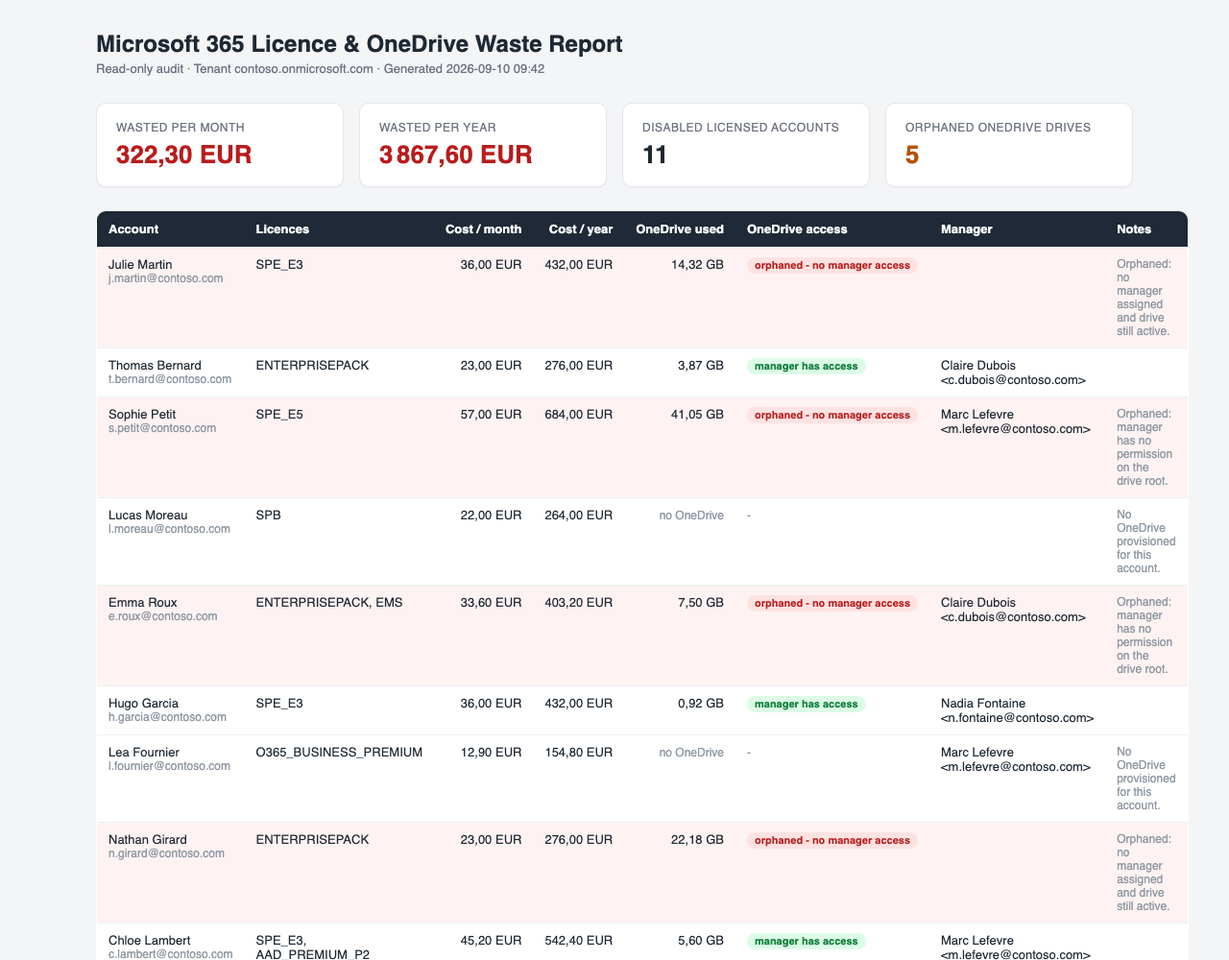
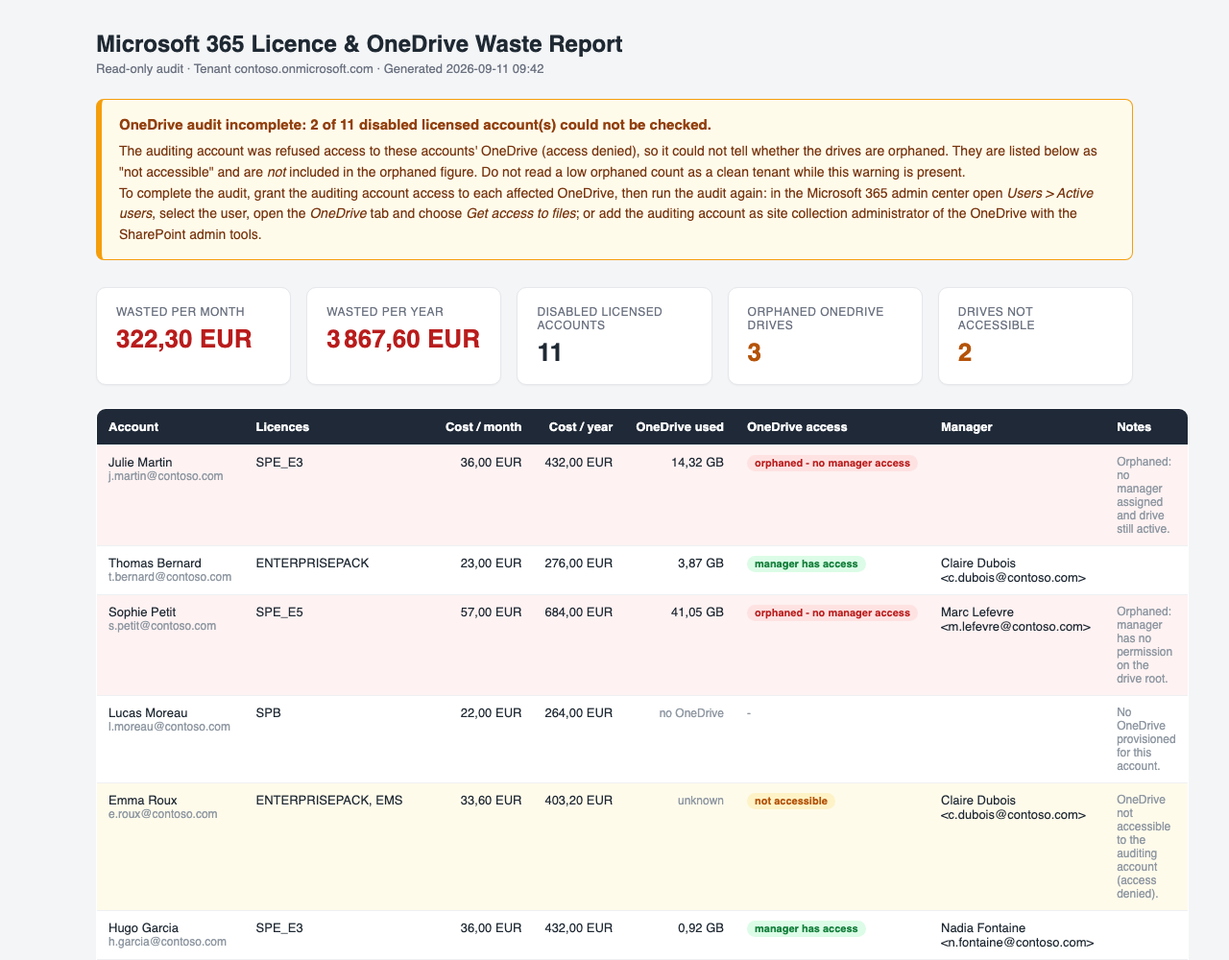
Report inaccessible OneDrive drives explicitly instead of counting them as not orphaned
Replaces the OneDriveOrphaned boolean with a four-value OneDriveStatus
(Orphaned, Delegated, NotProvisioned, NotAccessible). Access denied and any
unrecognised failure now yield NotAccessible; the notAllowed 'no valid license'
answer yields NotProvisioned. The HTML report gains a 'Drives not accessible'
counter and a warning box when it is above zero, the console summary prints the
same warning, and the orphaned counter only counts drives that were actually
read. Licence detection and cost calculation are unchanged.

Also: example report regenerated with the four statuses, Known limitations
updated, CHANGELOG 1.0.2.

diff --git a/Docs/example-report.html b/Docs/example-report.html
@@ -11,14 +11,19 @@
     .wrap { max-width: 1120px; margin: 0 auto; padding: 32px 20px 56px; }
     header h1 { margin: 0 0 4px; font-size: 24px; }
     header .sub { color: #6b7280; font-size: 13px; }
-    .cards { display: grid; grid-template-columns: repeat(4, 1fr); gap: 16px; margin: 28px 0 8px; }
+    .cards { display: grid; grid-template-columns: repeat(5, 1fr); gap: 16px; margin: 28px 0 8px; }
     .card { background: #fff; border: 1px solid #e5e7eb; border-radius: 10px; padding: 18px 20px;
             box-shadow: 0 1px 2px rgba(0,0,0,.04); }
     .card .label { color: #6b7280; font-size: 12px; text-transform: uppercase; letter-spacing: .04em; }
     .card .value { font-size: 26px; font-weight: 700; margin-top: 6px; }
     .card.accent .value { color: #b91c1c; }
     .card.warn   .value { color: #b45309; }
-    @media (max-width: 820px) { .cards { grid-template-columns: repeat(2, 1fr); } }
+    @media (max-width: 980px) { .cards { grid-template-columns: repeat(3, 1fr); } }
+    @media (max-width: 640px) { .cards { grid-template-columns: repeat(2, 1fr); } }
+    .alert { margin: 24px 0 0; padding: 14px 18px; background: #fffbeb; color: #78350f;
+             border: 1px solid #f59e0b; border-left-width: 6px; border-radius: 8px;
+             font-size: 14px; line-height: 1.55; }
+    .alert strong { display: block; font-size: 15px; margin-bottom: 6px; color: #92400e; }
     table { width: 100%; border-collapse: collapse; background: #fff; margin-top: 24px;
             border: 1px solid #e5e7eb; border-radius: 10px; overflow: hidden; font-size: 13px; }
     thead th { text-align: left; background: #1f2937; color: #f9fafb; padding: 11px 12px;
@@ -27,11 +32,14 @@
     tbody tr:hover { background: #fafbfc; }
     tr.orphan { background: #fef2f2; }
     tr.orphan:hover { background: #fee2e2; }
+    tr.inaccessible { background: #fffbeb; }
+    tr.inaccessible:hover { background: #fef3c7; }
     td.num, th.num { text-align: right; white-space: nowrap; }
     .muted { color: #9099a3; font-size: 12px; }
     .badge { display: inline-block; padding: 2px 8px; border-radius: 999px; font-size: 11px; font-weight: 600; white-space: nowrap; }
     .badge-risk { background: #fee2e2; color: #b91c1c; }
     .badge-ok   { background: #dcfce7; color: #15803d; }
+    .badge-warn { background: #fef3c7; color: #b45309; }
     footer { margin-top: 28px; color: #9099a3; font-size: 12px; line-height: 1.5; }
 </style>
 </head>
@@ -39,9 +47,19 @@
 <div class="wrap">
     <header>
         <h1>Microsoft 365 Licence &amp; OneDrive Waste Report</h1>
-        <div class="sub">Read-only audit &middot; Tenant contoso.onmicrosoft.com &middot; Generated 2026-09-10 09:42</div>
+        <div class="sub">Read-only audit &middot; Tenant contoso.onmicrosoft.com &middot; Generated 2026-09-11 09:42</div>
     </header>
-
+    <div class="alert" role="alert">
+        <strong>OneDrive audit incomplete: 2 of 11 disabled licensed account(s) could not be checked.</strong>
+        The auditing account was refused access to these accounts' OneDrive (access denied), so it could not
+        tell whether the drives are orphaned. They are listed below as &quot;not accessible&quot; and are
+        <em>not</em> included in the orphaned figure. Do not read a low orphaned count as a clean tenant while
+        this warning is present.<br>
+        To complete the audit, grant the auditing account access to each affected OneDrive, then run the audit
+        again: in the Microsoft 365 admin center open <em>Users &gt; Active users</em>, select the user, open the
+        <em>OneDrive</em> tab and choose <em>Get access to files</em>; or add the auditing account as site
+        collection administrator of the OneDrive with the SharePoint admin tools.
+    </div>
     <section class="cards">
         <div class="card accent">
             <div class="label">Wasted per month</div>
@@ -57,7 +75,11 @@
         </div>
         <div class="card warn">
             <div class="label">Orphaned OneDrive drives</div>
-            <div class="value">5</div>
+            <div class="value">3</div>
+        </div>
+        <div class="card warn">
+            <div class="label">Drives not accessible</div>
+            <div class="value">2</div>
         </div>
     </section>
 
@@ -75,15 +97,16 @@
             </tr>
         </thead>
         <tbody>
-<tr class="orphan"><td>Julie Martin<div class='muted'>j.martin@contoso.com</div></td><td>SPE_E3</td><td class='num'>36,00 EUR</td><td class='num'>432,00 EUR</td><td class='num'>14,32 GB</td><td><span class="badge badge-risk">orphaned - no manager access</span></td><td></td><td class='muted'>Orphaned: no manager assigned and drive still active.</td></tr><tr><td>Thomas Bernard<div class='muted'>t.bernard@contoso.com</div></td><td>ENTERPRISEPACK</td><td class='num'>23,00 EUR</td><td class='num'>276,00 EUR</td><td class='num'>3,87 GB</td><td><span class="badge badge-ok">manager has access</span></td><td>Claire Dubois &lt;c.dubois@contoso.com&gt;</td><td class='muted'></td></tr><tr class="orphan"><td>Sophie Petit<div class='muted'>s.petit@contoso.com</div></td><td>SPE_E5</td><td class='num'>57,00 EUR</td><td class='num'>684,00 EUR</td><td class='num'>41,05 GB</td><td><span class="badge badge-risk">orphaned - no manager access</span></td><td>Marc Lefevre &lt;m.lefevre@contoso.com&gt;</td><td class='muted'>Orphaned: manager has no permission on the drive root.</td></tr><tr><td>Lucas Moreau<div class='muted'>l.moreau@contoso.com</div></td><td>SPB</td><td class='num'>22,00 EUR</td><td class='num'>264,00 EUR</td><td class='num'><span class="muted">no OneDrive</span></td><td><span class="muted">-</span></td><td></td><td class='muted'>No OneDrive provisioned for this account.</td></tr><tr class="orphan"><td>Emma Roux<div class='muted'>e.roux@contoso.com</div></td><td>ENTERPRISEPACK, EMS</td><td class='num'>33,60 EUR</td><td class='num'>403,20 EUR</td><td class='num'>7,50 GB</td><td><span class="badge badge-risk">orphaned - no manager access</span></td><td>Claire Dubois &lt;c.dubois@contoso.com&gt;</td><td class='muted'>Orphaned: manager has no permission on the drive root.</td></tr><tr><td>Hugo Garcia<div class='muted'>h.garcia@contoso.com</div></td><td>SPE_E3</td><td class='num'>36,00 EUR</td><td class='num'>432,00 EUR</td><td class='num'>0,92 GB</td><td><span class="badge badge-ok">manager has access</span></td><td>Nadia Fontaine &lt;n.fontaine@contoso.com&gt;</td><td class='muted'></td></tr><tr><td>Lea Fournier<div class='muted'>l.fournier@contoso.com</div></td><td>O365_BUSINESS_PREMIUM</td><td class='num'>12,90 EUR</td><td class='num'>154,80 EUR</td><td class='num'><span class="muted">no OneDrive</span></td><td><span class="muted">-</span></td><td>Marc Lefevre &lt;m.lefevre@contoso.com&gt;</td><td class='muted'>No OneDrive provisioned for this account.</td></tr><tr class="orphan"><td>Nathan Girard<div class='muted'>n.girard@contoso.com</div></td><td>ENTERPRISEPACK</td><td class='num'>23,00 EUR</td><td class='num'>276,00 EUR</td><td class='num'>22,18 GB</td><td><span class="badge badge-risk">orphaned - no manager access</span></td><td></td><td class='muted'>Orphaned: no manager assigned and drive still active.</td></tr><tr><td>Chloe Lambert<div class='muted'>c.lambert@contoso.com</div></td><td>SPE_E3, AAD_PREMIUM_P2</td><td class='num'>45,20 EUR</td><td class='num'>542,40 EUR</td><td class='num'>5,60 GB</td><td><span class="badge badge-ok">manager has access</span></td><td>Marc Lefevre &lt;m.lefevre@contoso.com&gt;</td><td class='muted'></td></tr><tr class="orphan"><td>Antoine Bonnet<div class='muted'>a.bonnet@contoso.com</div></td><td>ENTERPRISEPACK</td><td class='num'>23,00 EUR</td><td class='num'>276,00 EUR</td><td class='num'>1,30 GB</td><td><span class="badge badge-risk">orphaned - no manager access</span></td><td>Nadia Fontaine &lt;n.fontaine@contoso.com&gt;</td><td class='muted'>Orphaned: manager has no permission on the drive root.</td></tr><tr><td>Legacy Scan Service<div class='muted'>svc-legacy-scan@contoso.com</div></td><td>EMS</td><td class='num'>10,60 EUR</td><td class='num'>127,20 EUR</td><td class='num'><span class="muted">no OneDrive</span></td><td><span class="muted">-</span></td><td></td><td class='muted'>No OneDrive provisioned for this account.</td></tr>
+<tr class="orphan"><td>Julie Martin<div class='muted'>j.martin@contoso.com</div></td><td>SPE_E3</td><td class='num'>36,00 EUR</td><td class='num'>432,00 EUR</td><td class='num'>14,32 GB</td><td><span class="badge badge-risk">orphaned - no manager access</span></td><td></td><td class='muted'>Orphaned: no manager assigned and drive still active.</td></tr><tr><td>Thomas Bernard<div class='muted'>t.bernard@contoso.com</div></td><td>ENTERPRISEPACK</td><td class='num'>23,00 EUR</td><td class='num'>276,00 EUR</td><td class='num'>3,87 GB</td><td><span class="badge badge-ok">manager has access</span></td><td>Claire Dubois &lt;c.dubois@contoso.com&gt;</td><td class='muted'></td></tr><tr class="orphan"><td>Sophie Petit<div class='muted'>s.petit@contoso.com</div></td><td>SPE_E5</td><td class='num'>57,00 EUR</td><td class='num'>684,00 EUR</td><td class='num'>41,05 GB</td><td><span class="badge badge-risk">orphaned - no manager access</span></td><td>Marc Lefevre &lt;m.lefevre@contoso.com&gt;</td><td class='muted'>Orphaned: manager has no permission on the drive root.</td></tr><tr><td>Lucas Moreau<div class='muted'>l.moreau@contoso.com</div></td><td>SPB</td><td class='num'>22,00 EUR</td><td class='num'>264,00 EUR</td><td class='num'><span class="muted">no OneDrive</span></td><td><span class="muted">-</span></td><td></td><td class='muted'>No OneDrive provisioned for this account.</td></tr><tr class="inaccessible"><td>Emma Roux<div class='muted'>e.roux@contoso.com</div></td><td>ENTERPRISEPACK, EMS</td><td class='num'>33,60 EUR</td><td class='num'>403,20 EUR</td><td class='num'><span class="muted">unknown</span></td><td><span class="badge badge-warn">not accessible</span></td><td>Claire Dubois &lt;c.dubois@contoso.com&gt;</td><td class='muted'>OneDrive not accessible to the auditing account (access denied).</td></tr><tr><td>Hugo Garcia<div class='muted'>h.garcia@contoso.com</div></td><td>SPE_E3</td><td class='num'>36,00 EUR</td><td class='num'>432,00 EUR</td><td class='num'>0,92 GB</td><td><span class="badge badge-ok">manager has access</span></td><td>Nadia Fontaine &lt;n.fontaine@contoso.com&gt;</td><td class='muted'></td></tr><tr><td>Lea Fournier<div class='muted'>l.fournier@contoso.com</div></td><td>O365_BUSINESS_PREMIUM</td><td class='num'>12,90 EUR</td><td class='num'>154,80 EUR</td><td class='num'><span class="muted">no OneDrive</span></td><td><span class="muted">-</span></td><td>Marc Lefevre &lt;m.lefevre@contoso.com&gt;</td><td class='muted'>No OneDrive provisioned for this account.</td></tr><tr class="orphan"><td>Nathan Girard<div class='muted'>n.girard@contoso.com</div></td><td>ENTERPRISEPACK</td><td class='num'>23,00 EUR</td><td class='num'>276,00 EUR</td><td class='num'>22,18 GB</td><td><span class="badge badge-risk">orphaned - no manager access</span></td><td></td><td class='muted'>Orphaned: no manager assigned and drive still active.</td></tr><tr><td>Chloe Lambert<div class='muted'>c.lambert@contoso.com</div></td><td>SPE_E3, AAD_PREMIUM_P2</td><td class='num'>45,20 EUR</td><td class='num'>542,40 EUR</td><td class='num'>5,60 GB</td><td><span class="badge badge-ok">manager has access</span></td><td>Marc Lefevre &lt;m.lefevre@contoso.com&gt;</td><td class='muted'></td></tr><tr class="inaccessible"><td>Antoine Bonnet<div class='muted'>a.bonnet@contoso.com</div></td><td>ENTERPRISEPACK</td><td class='num'>23,00 EUR</td><td class='num'>276,00 EUR</td><td class='num'><span class="muted">unknown</span></td><td><span class="badge badge-warn">not accessible</span></td><td>Nadia Fontaine &lt;n.fontaine@contoso.com&gt;</td><td class='muted'>OneDrive not accessible to the auditing account (access denied).</td></tr><tr><td>Legacy Scan Service<div class='muted'>svc-legacy-scan@contoso.com</div></td><td>EMS</td><td class='num'>10,60 EUR</td><td class='num'>127,20 EUR</td><td class='num'><span class="muted">no OneDrive</span></td><td><span class="muted">-</span></td><td></td><td class='muted'>No OneDrive provisioned for this account.</td></tr>
         </tbody>
     </table>
 
     <footer>
         Euro figures use the indicative prices in Config.ps1 and must be adjusted to your
         contracted rates. &quot;Orphaned&quot; means the disabled account still owns an active
-        OneDrive whose root has no permission granted to the account's manager. This report is
-        read-only: no account, licence or drive was modified.
+        OneDrive whose root has no permission granted to the account's manager. &quot;Not accessible&quot;
+        means the auditing account could not read the drive; such drives are excluded from the orphaned
+        count. This report is read-only: no account, licence or drive was modified.
     </footer>
 </div>
 </body>

diff --git a/README.md b/README.md
@@ -16,7 +16,7 @@ When an employee leaves, the account is usually disabled but the licence is freq
 2. Reads the tenant's subscribed SKUs to translate each licence `SkuId` into its `SkuPartNumber`.
 3. Lists every account where `accountEnabled` is false and at least one licence is assigned.
 4. Prices each licence from a table you control in `Config/Config.ps1` and sums the monthly and yearly waste.
-5. For each of those accounts, checks the OneDrive: does a drive exist, how much is stored, and does the account's manager hold a permission on the drive root. A disabled account with an active drive and no manager access is reported as orphaned.
+5. For each of those accounts, checks the OneDrive: does a drive exist, how much is stored, and does the account's manager hold a permission on the drive root. Each account receives one of four statuses: `Orphaned` (active drive, no manager access), `Delegated` (manager has access), `NotProvisioned` (no drive) or `NotAccessible` (the auditing account was refused access, so nothing could be checked).
 6. Optionally lists still-enabled accounts with no interactive sign-in for a configurable number of days (informational, not counted in the total).
 7. Writes a self-contained HTML report and a CSV export, both timestamped, plus a per-run log, and prints a headline summary to the console.
 
@@ -146,8 +146,8 @@ Everything is timestamped and written under `Reports/` and `Logs/` (both ignored
 
 | File | Content |
 |------|---------|
-| `Reports/WasteReport-<timestamp>.html` | Self-contained report (inline CSS, no external dependency). Summary cards, then a per-account table. |
-| `Reports/WasteReport-<timestamp>.csv` | One row per disabled licensed account: `DisplayName`, `UserPrincipalName`, `AccountEnabled`, `Licenses`, `MonthlyCostEur`, `YearlyCostEur`, `OneDriveActive`, `OneDriveUsedGB`, `OneDriveOrphaned`, `Manager`, `Notes`. |
+| `Reports/WasteReport-<timestamp>.html` | Self-contained report (inline CSS, no external dependency). Summary cards, a warning box when some drives could not be read, then a per-account table. |
+| `Reports/WasteReport-<timestamp>.csv` | One row per disabled licensed account: `DisplayName`, `UserPrincipalName`, `AccountEnabled`, `Licenses`, `MonthlyCostEur`, `YearlyCostEur`, `OneDriveActive`, `OneDriveUsedGB`, `OneDriveStatus` (Orphaned, Delegated, NotProvisioned or NotAccessible), `Manager`, `Notes`. |
 | `Reports/InactiveEnabled-<timestamp>.csv` | Only with `-IncludeInactiveEnabled` and when matches are found. |
 | `Logs/WasteAudit-<timestamp>.log` | Full run log, same INFO / WARN / ERROR / SUCCESS lines as the console. |
 
@@ -166,8 +166,8 @@ Setup details, including the optional dedicated app registration and how to gran
 
 ## Known limitations
 
-- OneDrive inspection depends on the auditing administrator's own access to each drive. This was tested live on a lab tenant with a Microsoft 365 Business Premium licence: a disabled, licensed account with a provisioned OneDrive and a manager holding no permission on it. The licence waste was reported correctly (SPB, 22 EUR per month). The drive read, however, was answered by Microsoft Graph with `accessDenied`: with delegated `Files.Read.All`, a Global Administrator has no access to another user's OneDrive unless they are a site collection administrator of that personal site. In that situation the script logs a warning, writes "OneDrive check failed: Access denied" in the Notes column, reports the drive as inactive and does not count it as orphaned. The orphaned-drive counter therefore under-reports in any tenant where the signed-in administrator has not been granted access to the users' OneDrives, which is the default state of a tenant. To obtain the OneDrive columns, grant the auditing account access to the drives first (Microsoft 365 admin center, user page, OneDrive tab, "Get access to files", or the SharePoint admin tools), then run the audit. The script does not support application-only permissions as shipped.
-- Because of the point above, the manager-access comparison itself (whether the manager's UPN or mail appears in the drive root permissions) has not been validated against a live tenant. It has only been exercised with synthetic permission data. Real-world permission shapes vary (direct grants, sharing links, sharing invitations). Check the OneDrive column against a known case before relying on it.
+- OneDrive inspection depends on the auditing administrator's own access to each drive. This was tested live on a lab tenant with a Microsoft 365 Business Premium licence: a disabled, licensed account with a provisioned OneDrive and a manager holding no permission on it. The licence waste was reported correctly (SPB, 22 EUR per month). The drive read, however, was answered by Microsoft Graph with `accessDenied`: with delegated `Files.Read.All`, a Global Administrator has no access to another user's OneDrive unless they are a site collection administrator of that personal site. This is the default state of a tenant, so expect it on a first run. Since version 1.0.2 the case is reported explicitly instead of being silently counted as "not orphaned": the account gets the status `NotAccessible`, a dedicated "Drives not accessible" counter appears next to the orphaned counter, and a warning box at the top of the report (and in the console) states that the OneDrive audit is incomplete, how many accounts are affected and how to grant access. The orphaned counter only ever counts drives that were actually read. To complete the OneDrive part, grant the auditing account access to the drives (Microsoft 365 admin center, user page, OneDrive tab, "Get access to files", or the SharePoint admin tools), then run the audit again. The script does not support application-only permissions as shipped.
+- Because of the point above, the manager-access comparison itself (whether the manager's UPN or mail appears in the drive root permissions) has not been validated against a live tenant. It has only been exercised with synthetic permission data. Real-world permission shapes vary (direct grants, sharing links, sharing invitations). Check the OneDrive column against a known case before relying on it. The `NotAccessible` status, on the other hand, was validated live: the affected account was reported with that status, the counter and the warning.
 - Accounts without a provisioned OneDrive are handled correctly, and this path was validated live. Graph returns "User's mysite not found", the account is listed for its licence cost with the note "No OneDrive provisioned for this account." and is not counted as an orphaned drive. Verified on accounts holding a Business Premium licence that never signed in, and on accounts holding only an Entra ID P2 licence.
 - Prices are indicative until you set them. The shipped price table holds public list prices as a starting point. The totals are only as accurate as the values you enter in `Config.ps1`.
 - Group-based licensing is not distinguished. The audit counts licences exactly as the directory reports them on the account, whether directly assigned or inherited from a group. Both represent a paid seat on a disabled account.

diff --git a/Docs/README.md b/Docs/README.md
@@ -24,8 +24,12 @@ reports. There is no delete, no disable, no licence removal, and therefore no
   price table you control), and sums the monthly and yearly waste.
 - Inspects each of those accounts' OneDrive: whether a drive exists, how much is
   stored, and whether the account's manager holds a permission on the drive root.
-  A disabled account with an active drive and no manager access is reported as
-  **orphaned**.
+  Each account receives one `OneDriveStatus`: **Orphaned** (active drive, no
+  manager access), **Delegated** (manager has access), **NotProvisioned** (no
+  drive exists) or **NotAccessible** (the auditing account was refused access, so
+  the drive could not be checked). Drives that could not be read are counted
+  apart and the report carries a visible warning; they are never presented as
+  "not orphaned".
 - Writes a timestamped HTML report and CSV export, and prints a headline summary
   to the console.
 
@@ -173,15 +177,18 @@ folders.
 
 - **`Reports/WasteReport-<timestamp>.html`**: a self-contained report (inline
   CSS, single file, no external dependencies). A summary band at the top shows the
-  monthly waste, yearly waste, number of disabled licensed accounts, and number of
-  orphaned OneDrive drives. Below it, a per-user table lists the account, its
+  monthly waste, yearly waste, number of disabled licensed accounts, number of
+  orphaned OneDrive drives and number of drives not accessible. When that last
+  figure is above zero, a warning box above the cards states that the OneDrive
+  audit is incomplete and how to grant access. Below it, a per-user table lists the account, its
   licences, monthly and yearly cost, OneDrive usage, OneDrive access status,
   manager, and notes. This is the file to present to management.
 
 - **`Reports/WasteReport-<timestamp>.csv`**: the raw per-user detail:
   `DisplayName`, `UserPrincipalName`, `AccountEnabled`, `Licenses`,
   `MonthlyCostEur`, `YearlyCostEur`, `OneDriveActive`, `OneDriveUsedGB`,
-  `OneDriveOrphaned`, `Manager`, `Notes`. Use it for filtering, pivoting, or
+  `OneDriveStatus` (Orphaned, Delegated, NotProvisioned or NotAccessible),
+  `Manager`, `Notes`. Use it for filtering, pivoting, or
   importing elsewhere.
 
 - **`Reports/InactiveEnabled-<timestamp>.csv`**: only when
@@ -203,20 +210,26 @@ delegated `Files.Read.All`, a Global Administrator has no access to another user
 OneDrive unless they are a site collection administrator of that personal site. In
 that situation the audit logs a warning, writes "OneDrive check failed: Access
 denied" in the Notes column, reports the drive as inactive and does not count it as
-orphaned. The orphaned-drive counter therefore under-reports in any tenant where the
-signed-in administrator has not been granted access to the users' OneDrives, which
-is the default state of a tenant. To obtain the OneDrive columns, grant the auditing
-account access to the drives first (Microsoft 365 admin center, user page, OneDrive
-tab, "Get access to files", or the SharePoint admin tools), then run the audit. The
-audit does not support application-only permissions as shipped.
+orphaned. That was version 1.0.1. Since version 1.0.2 the case is reported explicitly
+instead of being silently counted as "not orphaned": the account gets the status
+`NotAccessible`, a dedicated "Drives not accessible" counter appears next to the
+orphaned counter, and a warning box at the top of the report (and in the console)
+states that the OneDrive audit is incomplete, how many accounts are affected and how
+to grant access. The orphaned counter only ever counts drives that were actually
+read. Expect this situation on a first run: it is the default state of a tenant. To
+complete the OneDrive part, grant the auditing account access to the drives
+(Microsoft 365 admin center, user page, OneDrive tab, "Get access to files", or the
+SharePoint admin tools), then run the audit again. The audit does not support
+application-only permissions as shipped.
 
 **The manager-access comparison has not been validated live.** Because of the point
 above, the check that decides whether the manager's UPN or mail appears in the drive
 root permissions has only been exercised with synthetic permission data. Real-world
 permission shapes vary (direct grants, sharing links, sharing invitations). Check the
 OneDrive column against a known case before relying on it for a decision. The
-euro/licence figures are computed from directory data alone and are not subject to
-this caveat.
+`NotAccessible` status, on the other hand, was validated live: the affected account
+was reported with that status, the counter and the warning. The euro/licence
+figures are computed from directory data alone and are not subject to this caveat.
 
 **Accounts without a provisioned OneDrive are handled correctly.** This path was
 validated live: Graph returns "User's mysite not found", the account is listed for

diff --git a/CHANGELOG.md b/CHANGELOG.md
@@ -3,6 +3,31 @@
 All notable changes to License & OneDrive Waste Finder are documented here.
 This project follows [Semantic Versioning](https://semver.org/).
 
+## 1.0.2: Explicit OneDrive status, no silent false negative on inaccessible drives
+
+- The single `OneDriveOrphaned` boolean is replaced by an `OneDriveStatus` column
+  with four values: `Orphaned`, `Delegated`, `NotProvisioned`, `NotAccessible`. A
+  drive the auditing account cannot read (access denied, or any failure that is not
+  recognised) is now reported as `NotAccessible` instead of silently counting as
+  "not orphaned". The status defaults to `NotAccessible` until a check completes,
+  so no code path can fall through to a clean result.
+- Graph's `notAllowed` / "you do not have a valid license" answer, returned for
+  accounts without a SharePoint or OneDrive plan, is recognised and reported as
+  `NotProvisioned`.
+- HTML report: the orphaned counter only counts drives that were read and found
+  without manager access; a new "Drives not accessible" counter sits next to it;
+  when it is above zero, a warning box at the top of the report states that the
+  OneDrive audit is incomplete, how many accounts are affected and how to grant the
+  auditing account access. Rows of inaccessible drives are tinted and badged.
+- Console summary carries the same distinction and prints the same warning.
+- Licence detection and cost calculation are unchanged.
+- GitHub repository: PSScriptAnalyzer workflow (errors only) on push and pull
+  request.
+- Documentation: Known limitations rewritten after a live test on a Microsoft 365
+  Business Premium licence (delegated administrators are refused access to other
+  users' OneDrive by default); example report regenerated with the four statuses;
+  quick start adapted to a git clone; wording clean-up.
+
 ## 1.0.1: Added Graph session cleanup (Disconnect-MgGraph) on script exit, per Microsoft best practices
 
 - The audit now closes the Microsoft Graph session at the end of every run, via a
